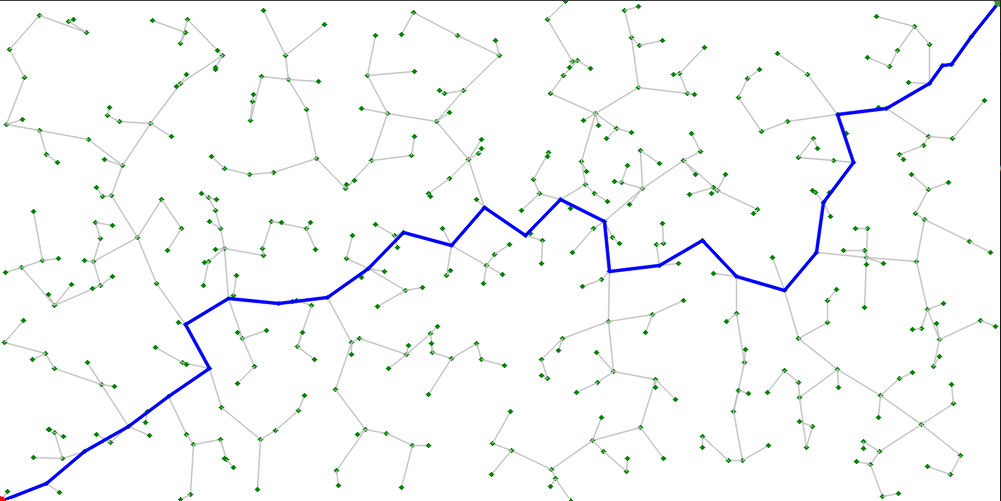
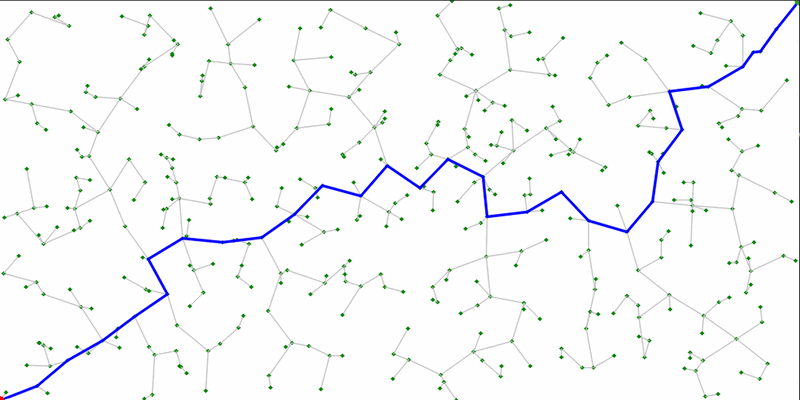
perf: shrink the home page images that were shipped at full size
Files in static/ and CSS url() images bypass Gatsby's resizing, so
the home page downloaded about 17 MB of images shown at 400 px:
- nutonomy.png: 4044x2276, 12.2 MiB -> nutonomy.jpg, 800x450, 82 KiB
- rrt.png, rrts.png: 1001x501, 1.4 MiB each -> 800x400 256-colour
  PNG, 33 and 72 KiB
- sidebar portrait rdu.jpg: 4888x5552, 1.2 MiB -> 600x682, 68 KiB

800 px covers the 400 px slots on 2x screens. git history keeps the
originals.

diff --git a/src/components/PageFragments/HomePage/MoreProjects.jsx b/src/components/PageFragments/HomePage/MoreProjects.jsx
@@ -12,7 +12,7 @@ const MoreProjects = () => (
     <Row gutter={{ xs: 8, sm: 16, md: 24, lg: 32 }}>
         <Col>
                 <ImageTile
-                        img="nutonomy.png"
+                        img="nutonomy.jpg"
                         width={400}
                         alt="nutonomy image"
                         img_desc="Self-driving Car (nuTonomy)"
